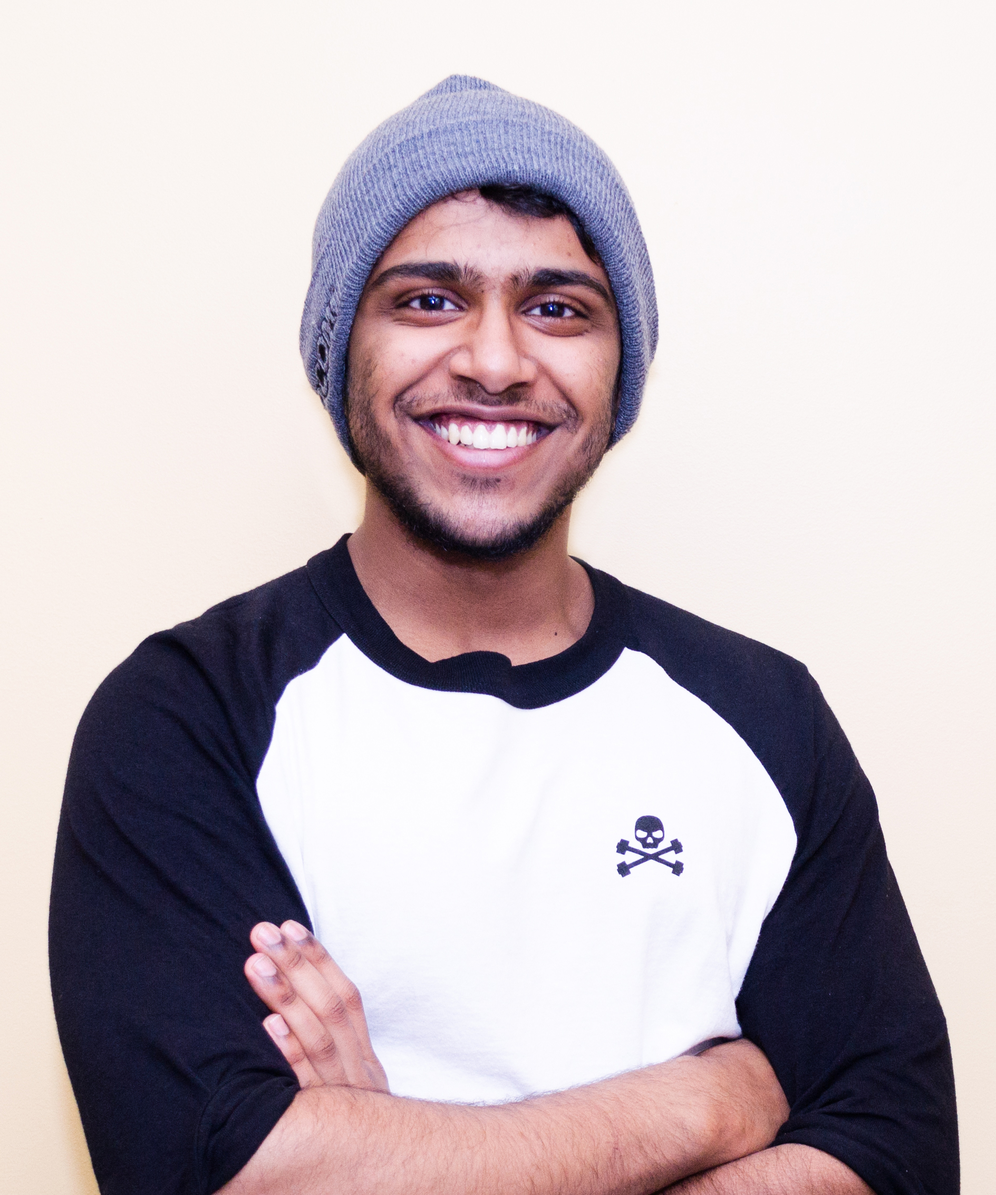
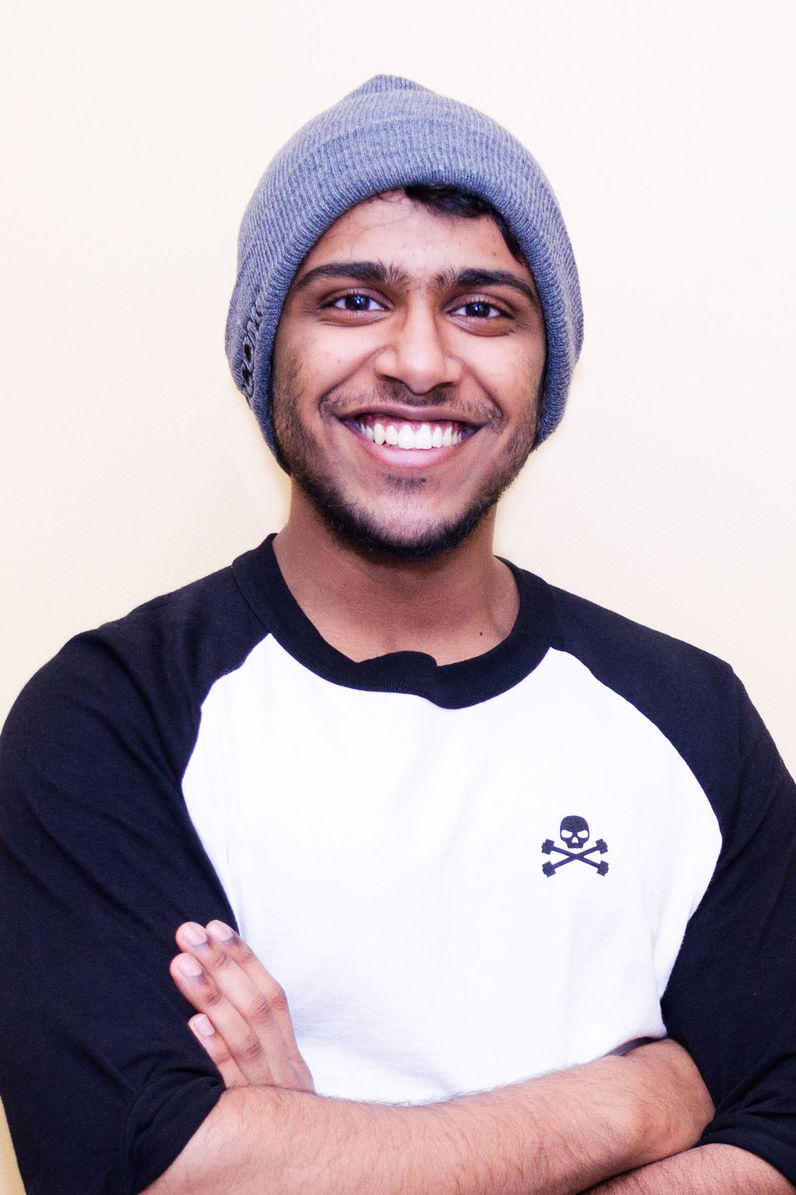
Hover effect on headshots

diff --git a/index.html b/index.html
@@ -197,7 +197,7 @@
         <h3>Our Team</h3>
 
         <div class="col-md-4 .col-xs-12">
-            <img src="img/headshots/gowtham.jpg" class="headshot">
+            <div class="headshot gowtham"></div>
 
             <p class="name">Gowtham Mohan</p>
 
@@ -205,7 +205,7 @@
 
         </div>
         <div class="col-md-4 .col-xs-12">
-            <img src="img/headshots/jeanie.jpg" class="headshot">
+            <div class="headshot jeanie"></div>
 
             <p class="name">Jeanie Suparman</p>
 
@@ -213,7 +213,7 @@
 
         </div>
         <div class="col-md-4 .col-xs-12">
-            <img src="img/headshots/shrey.jpg" class="headshot">
+            <div class="headshot shrey"></div>
 
             <p class="name">Shrey Swades Nayak</p>
 
@@ -221,7 +221,7 @@
 
         </div>
         <div class="col-md-4 .col-xs-12">
-            <img src="img/headshots/maia.jpg" class="headshot">
+            <div class="headshot maia"></div>
 
             <p class="name">Maia Kamyab</p>
 
@@ -229,7 +229,7 @@
 
         </div>
         <div class="col-md-4 .col-xs-12">
-            <img src="img/headshots/jay.jpg" class="headshot">
+            <div class="headshot jay"></div>
 
             <p class="name">Jay Friso</p>
 
@@ -237,7 +237,7 @@
 
         </div>
         <div class="col-md-4 .col-xs-12">
-            <img src="img/headshots/max.jpg" class="headshot">
+            <div class="headshot max"></div>
 
             <p class="name">Max Ahn</p>
 
@@ -245,7 +245,7 @@
 
         </div>
         <div class="col-md-4 .col-xs-12">
-            <img src="img/headshots/pinia.jpg" class="headshot">
+            <div class="headshot pinia"></div>
 
             <p class="name">Pinia Chandra</p>
 

diff --git a/css/AgdaGlobalStyles.css b/css/AgdaGlobalStyles.css
@@ -32,6 +32,7 @@
     display: flex;
     flex-wrap: wrap;
     justify-content: center;
+    transition: all ease 1s;
 }
 
 .about__pictures > div {
@@ -120,4 +121,78 @@ h3 {
 .headshot {
   max-width: 100%;
   border-radius: 50%;
+  transition: background-image ease 0.4s;
+  min-height: 185px;
+  background-size: cover;
+}
+
+@media (max-width: 991px) {
+    .headshot {
+        height: 240px;
+        width: 200px;
+    }
+}
+
+/*
+ *
+ *
+ * INDIVIDUAL HEADSHOT PROPERTIES
+ *
+ *
+ */
+
+ .headshot.gowtham {
+   background-image: url(../img/headshots/old/gowtham.jpg);
+ }
+
+ .headshot.gowtham:hover {
+   background-image: url(../img/headshots/gowtham.jpg);
+ }
+
+ .headshot.jeanie {
+   background-image: url(../img/headshots/old/jeanie.jpg);
+ }
+
+ .headshot.jeanie:hover {
+   background-image: url(../img/headshots/jeanie.jpg);
+ }
+
+.headshot.shrey {
+  background-image: url(../img/headshots/shrey.jpg);
+}
+
+.headshot.shrey:hover {
+  background-image: url(../img/headshots/funshot-shrey.jpg);
+}
+
+.headshot.maia {
+  background-image: url(../img/headshots/maia.jpg);
+}
+
+.headshot.maia:hover {
+  background-image: url(../img/headshots/funshot-maia.jpg);
+}
+
+.headshot.jay {
+  background-image: url(../img/headshots/jay.jpg);
+}
+
+.headshot.jay:hover {
+  background-image: url(../img/headshots/funshot-jay.jpg);
+}
+
+.headshot.max {
+  background-image: url(../img/headshots/max.jpg);
+}
+
+.headshot.max:hover {
+  background-image: url(../img/headshots/funshot-max.jpg);
+}
+
+.headshot.pinia {
+  background-image: url(../img/headshots/pinia.jpg);
+}
+
+.headshot.pinia:hover {
+  background-image: url(../img/headshots/funshot-pinia.jpg);
 }
